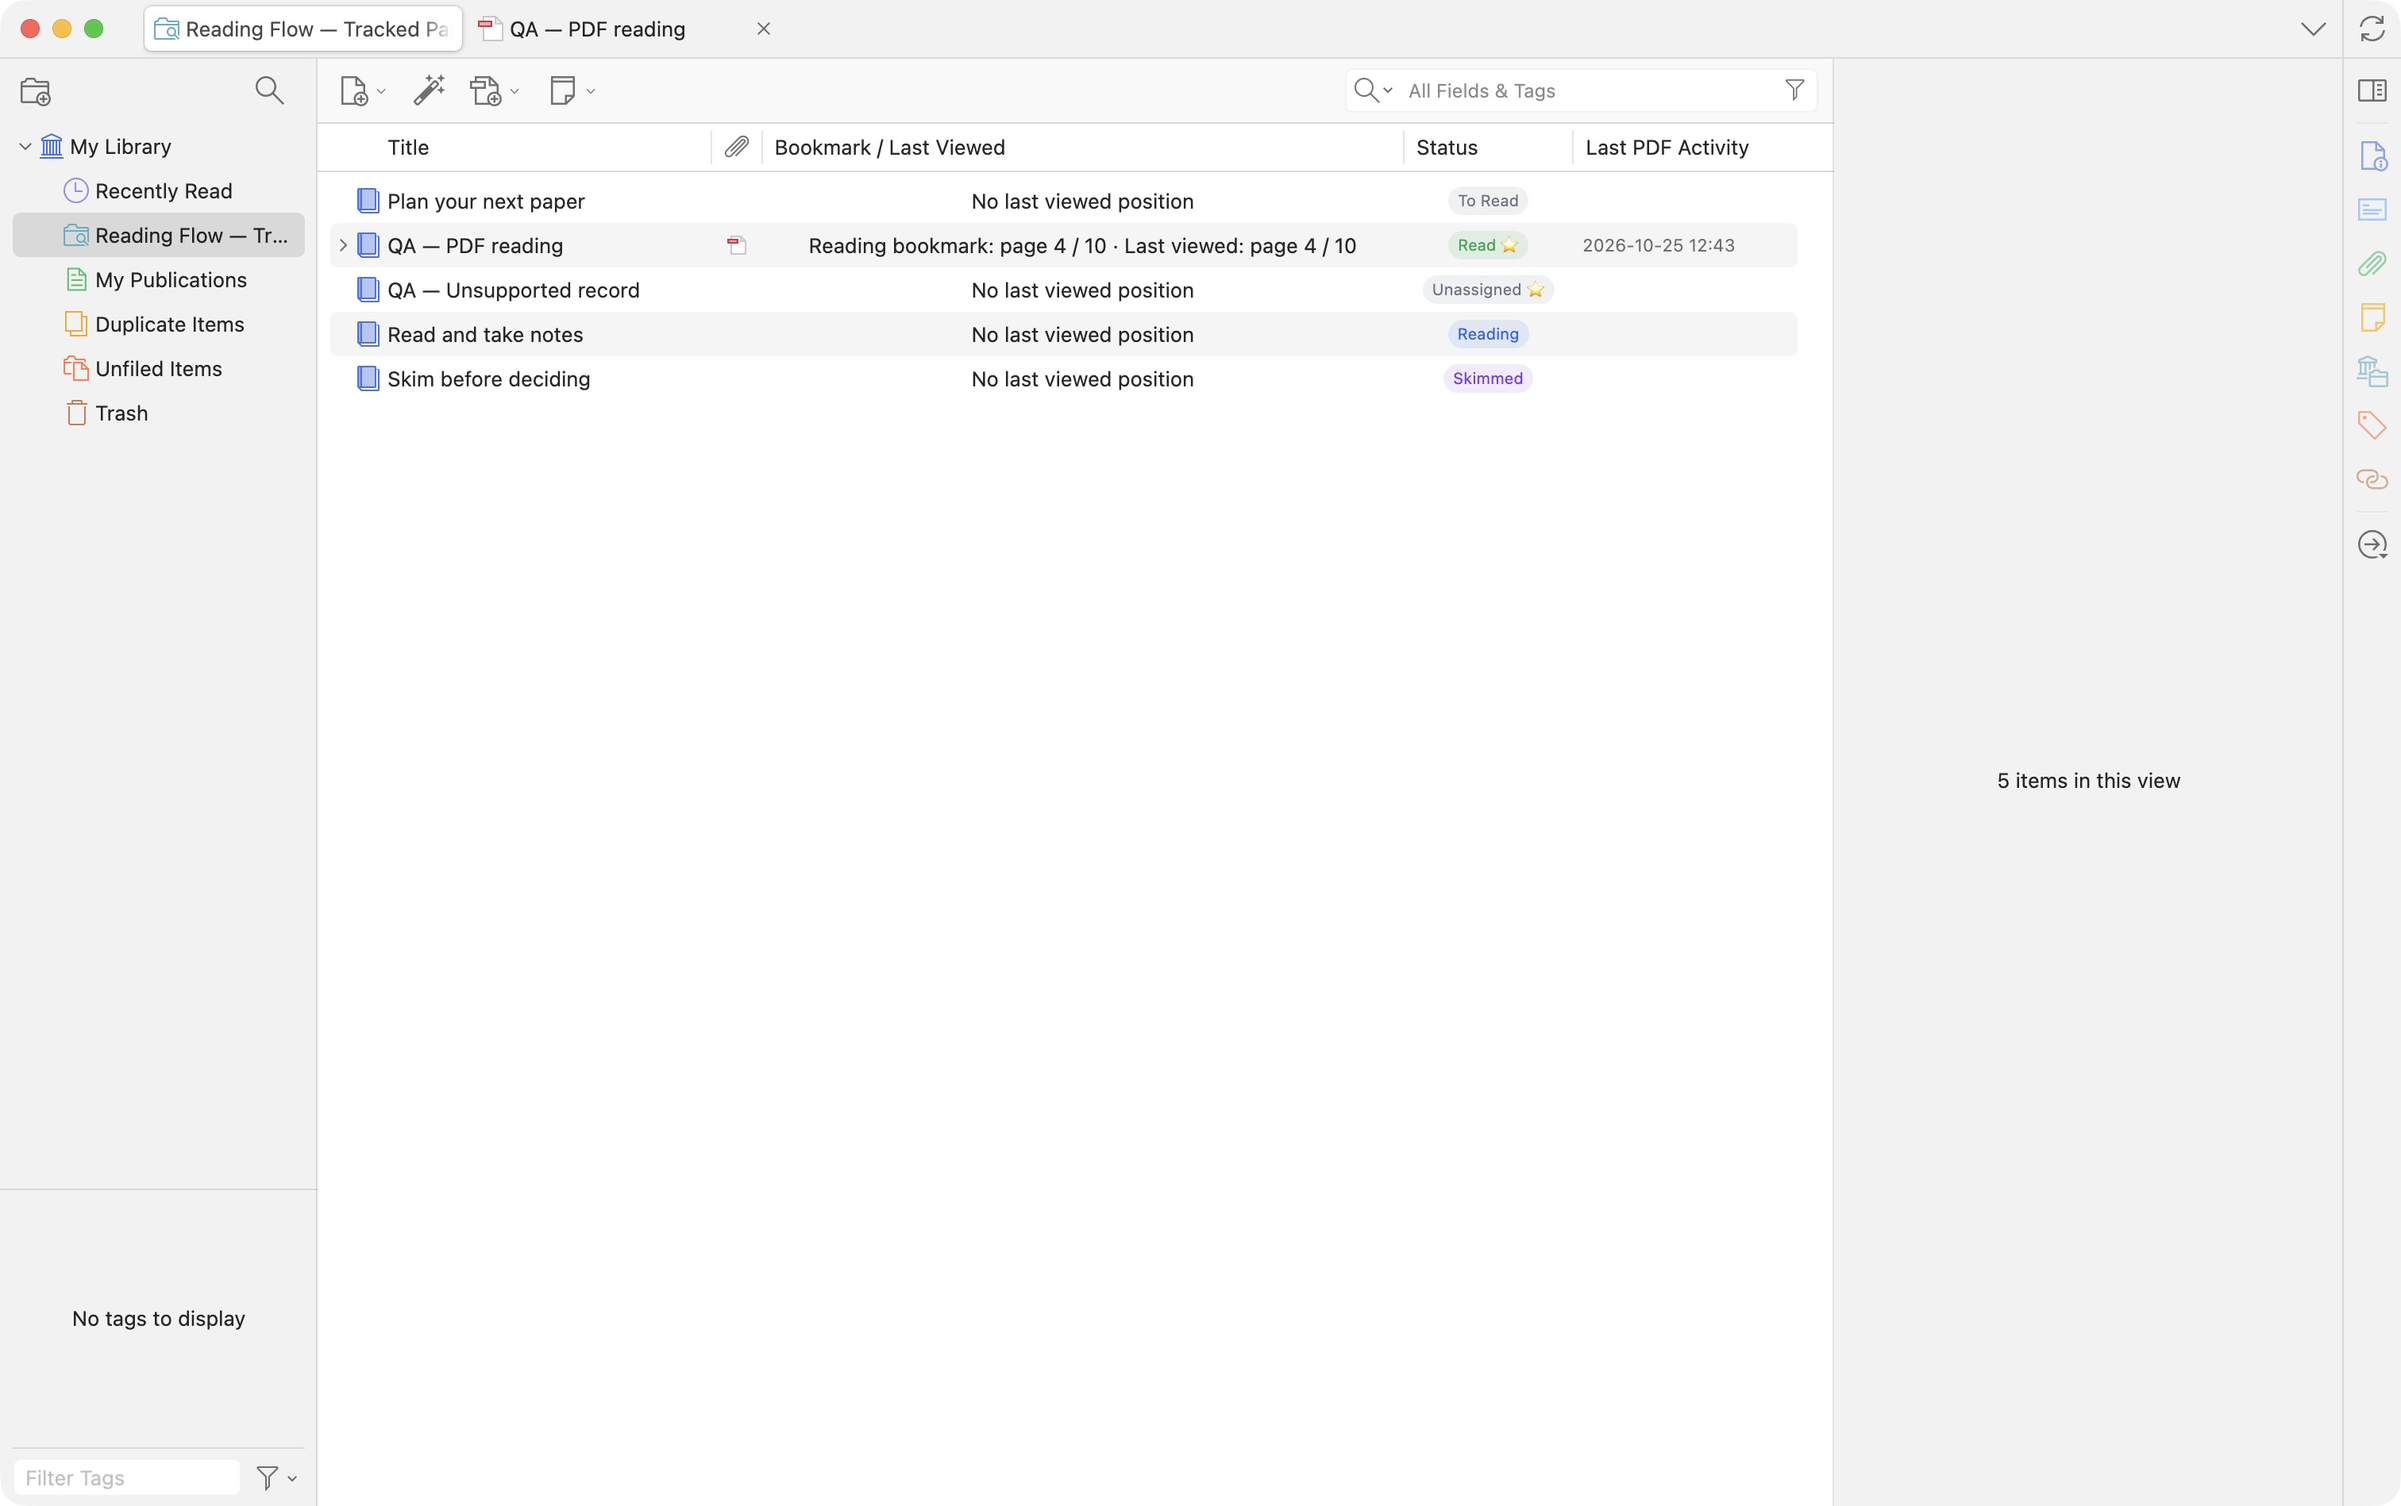
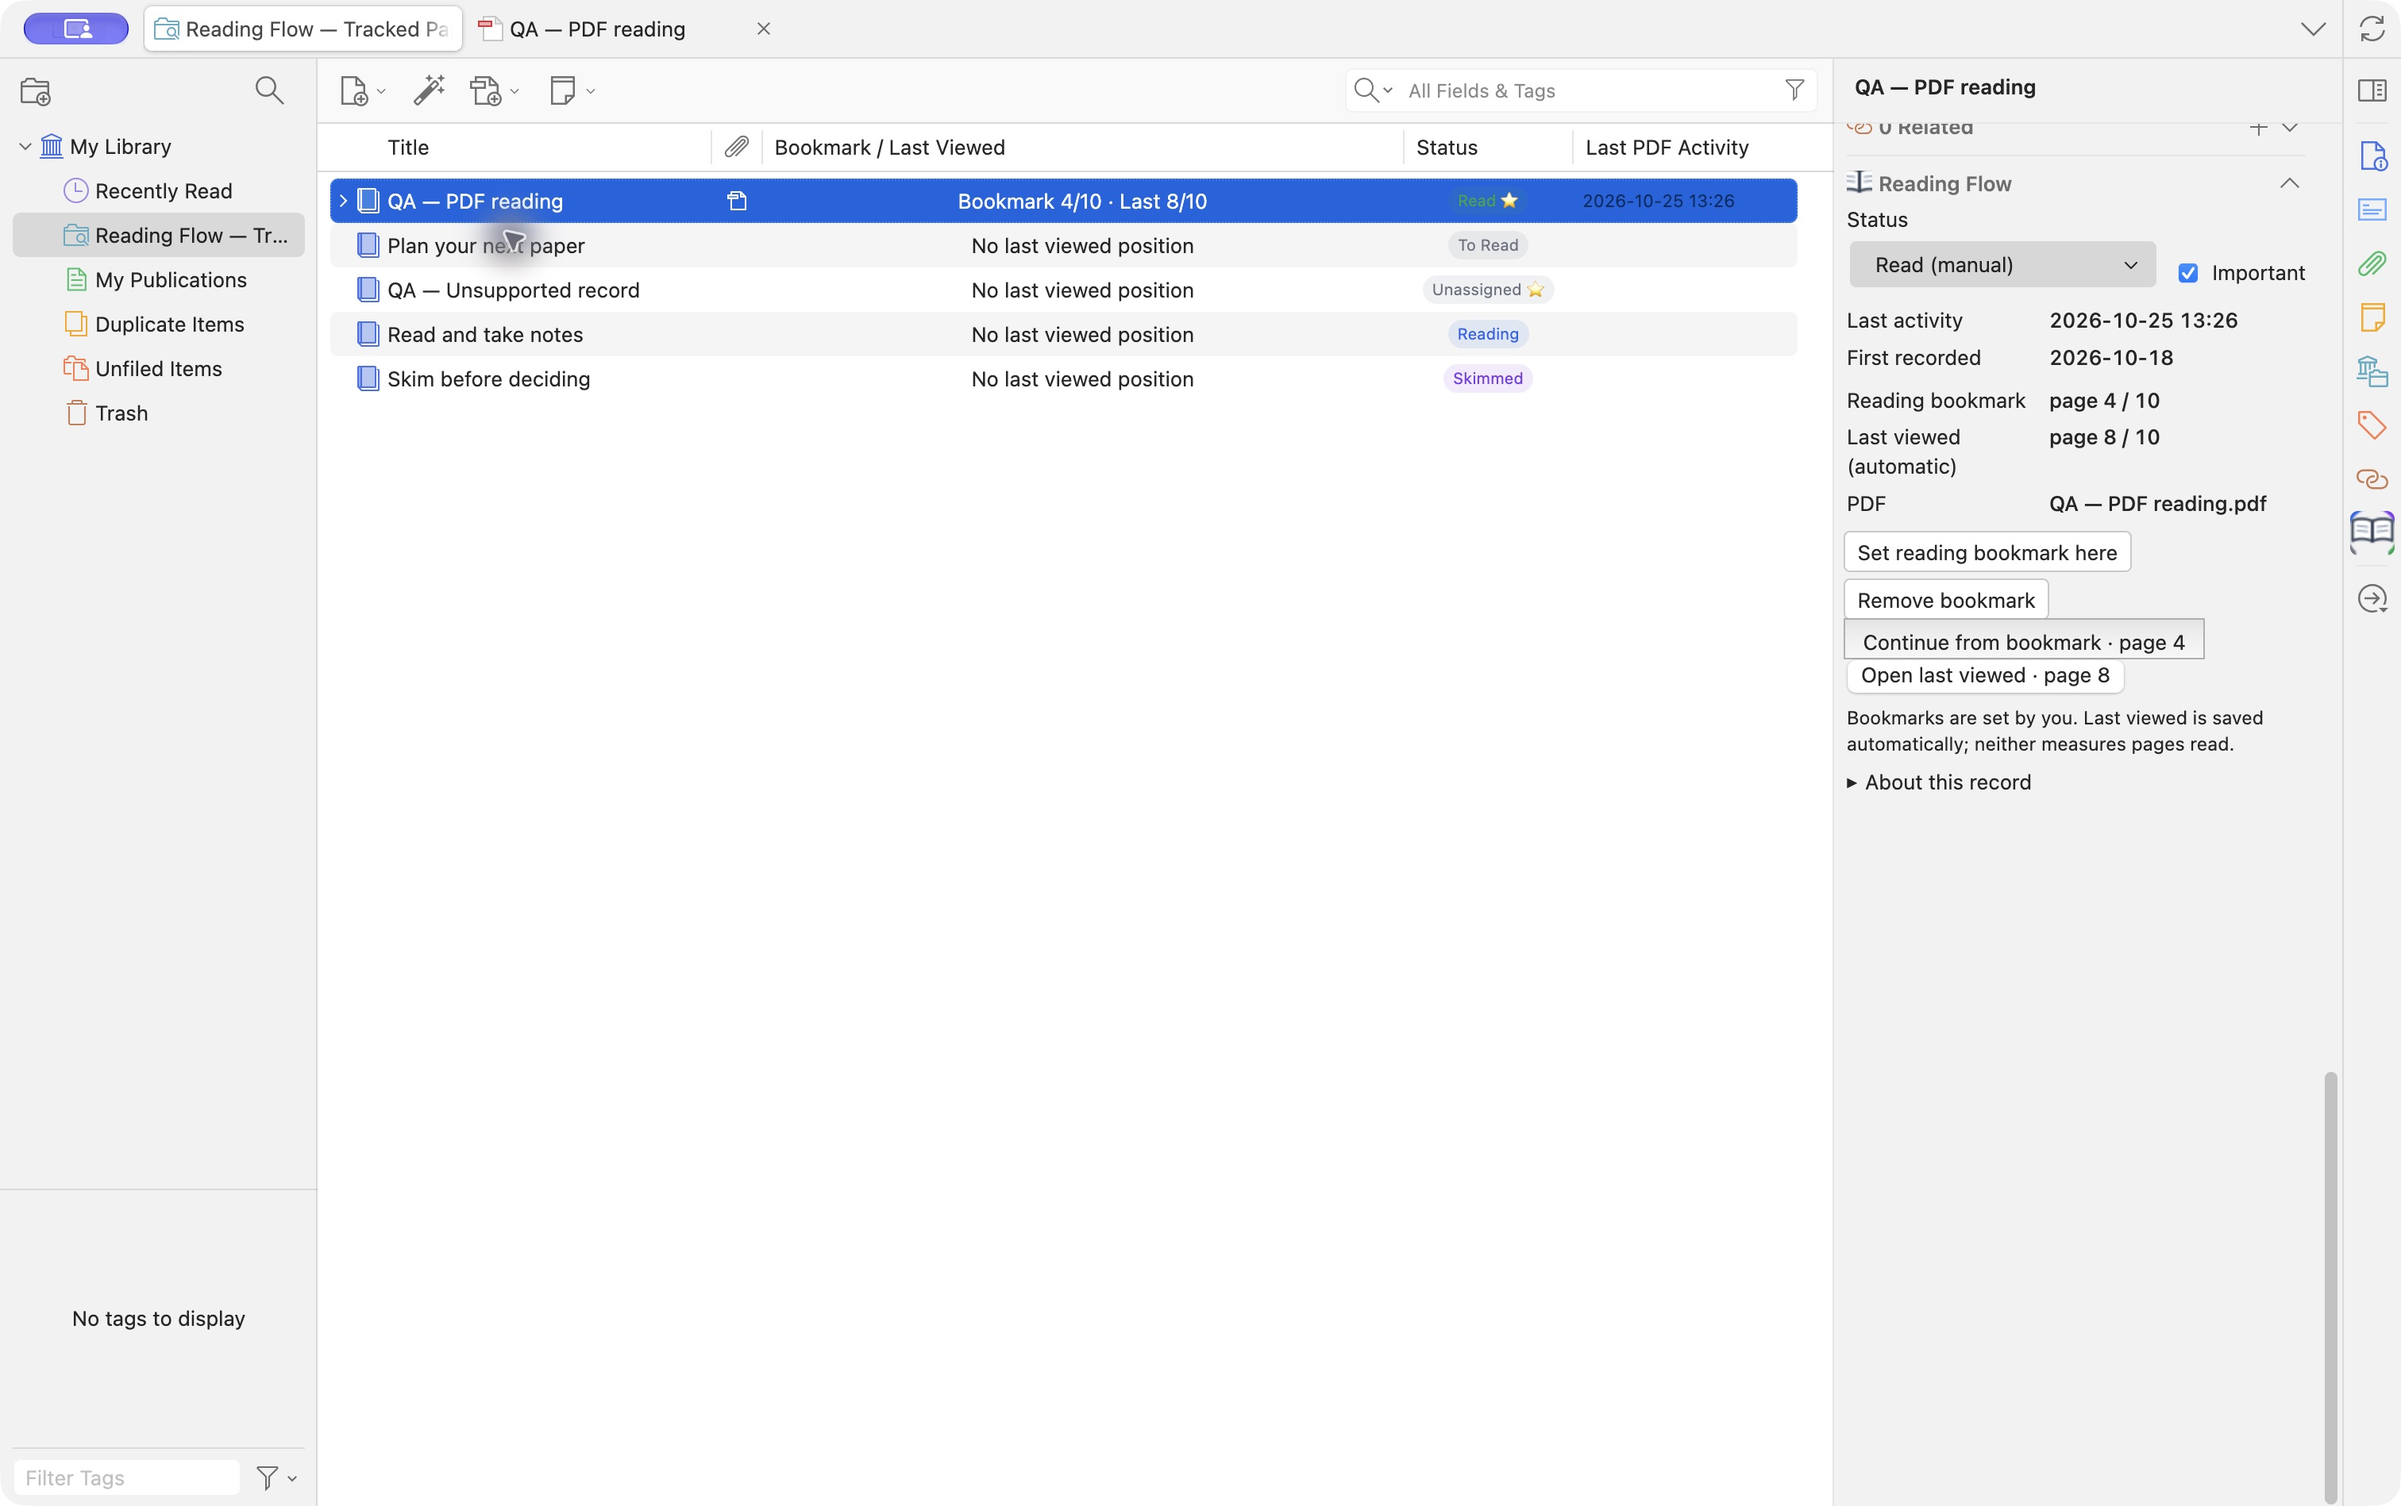
docs: refresh English screenshots for 1.3.8

diff --git a/docs/assets/README.md b/docs/assets/README.md
@@ -1,17 +1,17 @@
 # Screenshot provenance
 
-These are original, unedited captures of English Zotero 10.0.6 for macOS running Reading Flow 1.3.7 in a separate test profile. They are not generated mockups and contain no personal library records. Window layout changes and sample status choices were confined to that test profile. The public release remains 1.3.6; see the README version notice.
+These are original, unedited captures of English Zotero 10.0.6 for macOS running Reading Flow 1.3.8 in a separate test profile. They are not generated mockups and contain no personal library records. Window layout changes and sample status choices were confined to that test profile. The public release remains 1.3.6; see the README version notice.
 
 | File | Feature shown | Capture context |
 | --- | --- | --- |
-| reading-status-library.jpg | Four manual stages, untouched blank status, independent Important, and the item panel | Six sample items; PDF bookmark and last viewed both page 4 after resuming |
-| reading-bookmark-button.jpg | Bookmark here in the upper-right PDF toolbar | PDF reader at page 4/10 |
+| reading-status-library.jpg | Four manual stages, unassigned + Important, compact positions, and the item panel | QA sample library; bookmark 4/10; last viewed 8/10; Read + Important |
+| reading-bookmark-button.jpg | Bookmark here in the upper-right PDF toolbar | QA PDF reader at page 4/10 |
 | reading-bookmark-panel.jpg | Distinct bookmark and automatic-position actions, status, dates | Bookmark 4/10; last viewed 8/10 |
 | reading-bookmarks-statistics.jpg | Activity calendar, manual Marked Read, separate position columns | Bookmark 4/10; last viewed 8/10; manually Read and Important |
-| reading-flow-settings.jpg | Sidebar controls, column density, prospective new-item default | Compact and Unassigned shown; no personal settings used |
-| reading-list-sidebar.jpg | Native, selected tracked-papers Saved Search and status list | Five items with metadata; untouched unassigned example excluded |
+| reading-flow-settings.jpg | Sidebar controls, column density, prospective new-item default | Compact and Unassigned shown; test-profile settings only |
+| reading-list-sidebar.jpg | Native, selected tracked-papers Saved Search and concise positions | QA sample library; five items with status metadata |
 
-Screens represent separate moments in the same sample workflow, not one simultaneous snapshot. The status overview follows a return to page 4. The earlier panel/statistics captures show automatic page 8. Every bookmark remains page 4.
+Screens represent separate moments in the same sample workflow, not one simultaneous snapshot. The reader toolbar capture shows page 4; the library, panel, and statistics captures show bookmark page 4 and automatic last viewed page 8. Every capture uses the 1.3.8 source build and the isolated QA profile.
 
 The sample titled QA — Unsupported record retains a legacy Important record after earlier compatibility testing; the title is a fixture label, not a current parser-error diagnosis. Its Unassigned + Important display demonstrates that the flag does not imply a reading stage.
 

diff --git a/README.md b/README.md
@@ -15,7 +15,7 @@
 Reading Flow helps you return to the page you meant to keep. Leave a **reading bookmark**, browse another section, and come back without losing your place. See that bookmark, your last viewed page, and your chosen reading status directly in Zotero.
 
 > [!IMPORTANT]
-> **Screenshots show 1.3.7; current source is 1.3.8.** The latest published release is **1.3.6** as of October 25, 2026. For **Bookmark here** and the workflow below, [build the current source](#build-from-source) until a 1.3.8+ release is available.
+> **Screenshots show 1.3.8.** The latest published release is **1.3.6** as of October 25, 2026. For **Bookmark here** and the workflow below, [build the current source](#build-from-source) until a 1.3.8+ release is available.
 
 ![Actual English Zotero library showing To Read, Reading, Skimmed, Read with Important, and independent Unassigned states beside the Reading Flow panel](docs/assets/reading-status-library.jpg)
 

diff --git a/scripts/README.md b/scripts/README.md
@@ -1,0 +1,13 @@
+# Maintenance Scripts
+
+This directory contains the repository's verification and release-profile helpers.
+
+| Script | Purpose |
+| --- | --- |
+| `run-unit-tests.js` | Bundles and runs the TypeScript unit tests with Node's test runner. |
+| `verify-xpi.js` | Checks the built Zotero add-on package and update manifest. |
+| `verify-bookmark-compatibility.js` | Confirms older clients refuse bookmark records they cannot safely preserve. |
+| `verify-release-assets.js` | Compares published release assets with the local package for a release tag. |
+| `check-release-profile.js` | Checks an isolated Zotero profile against the expected add-on version and data paths. |
+
+Run the standard local checks from the repository root with `npm run verify`. Release-asset checks require a built package and an existing published release tag.
